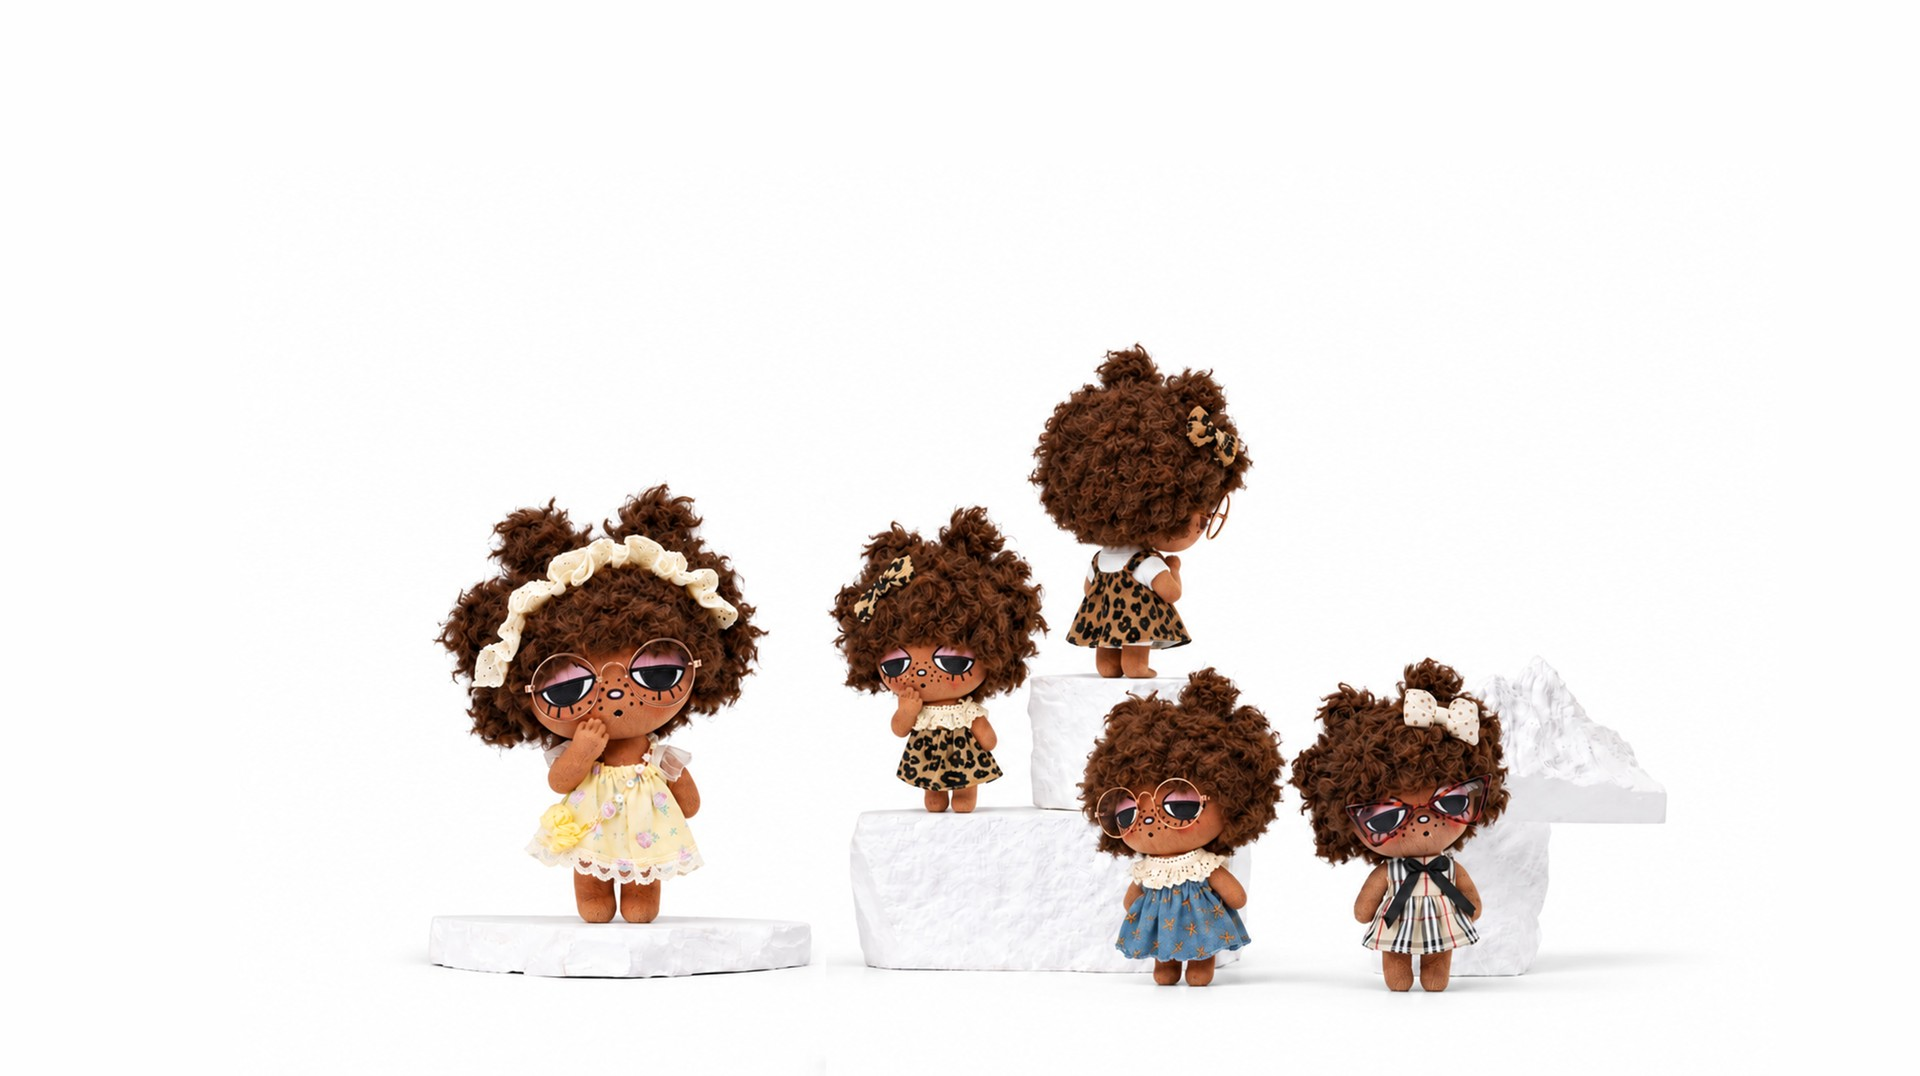
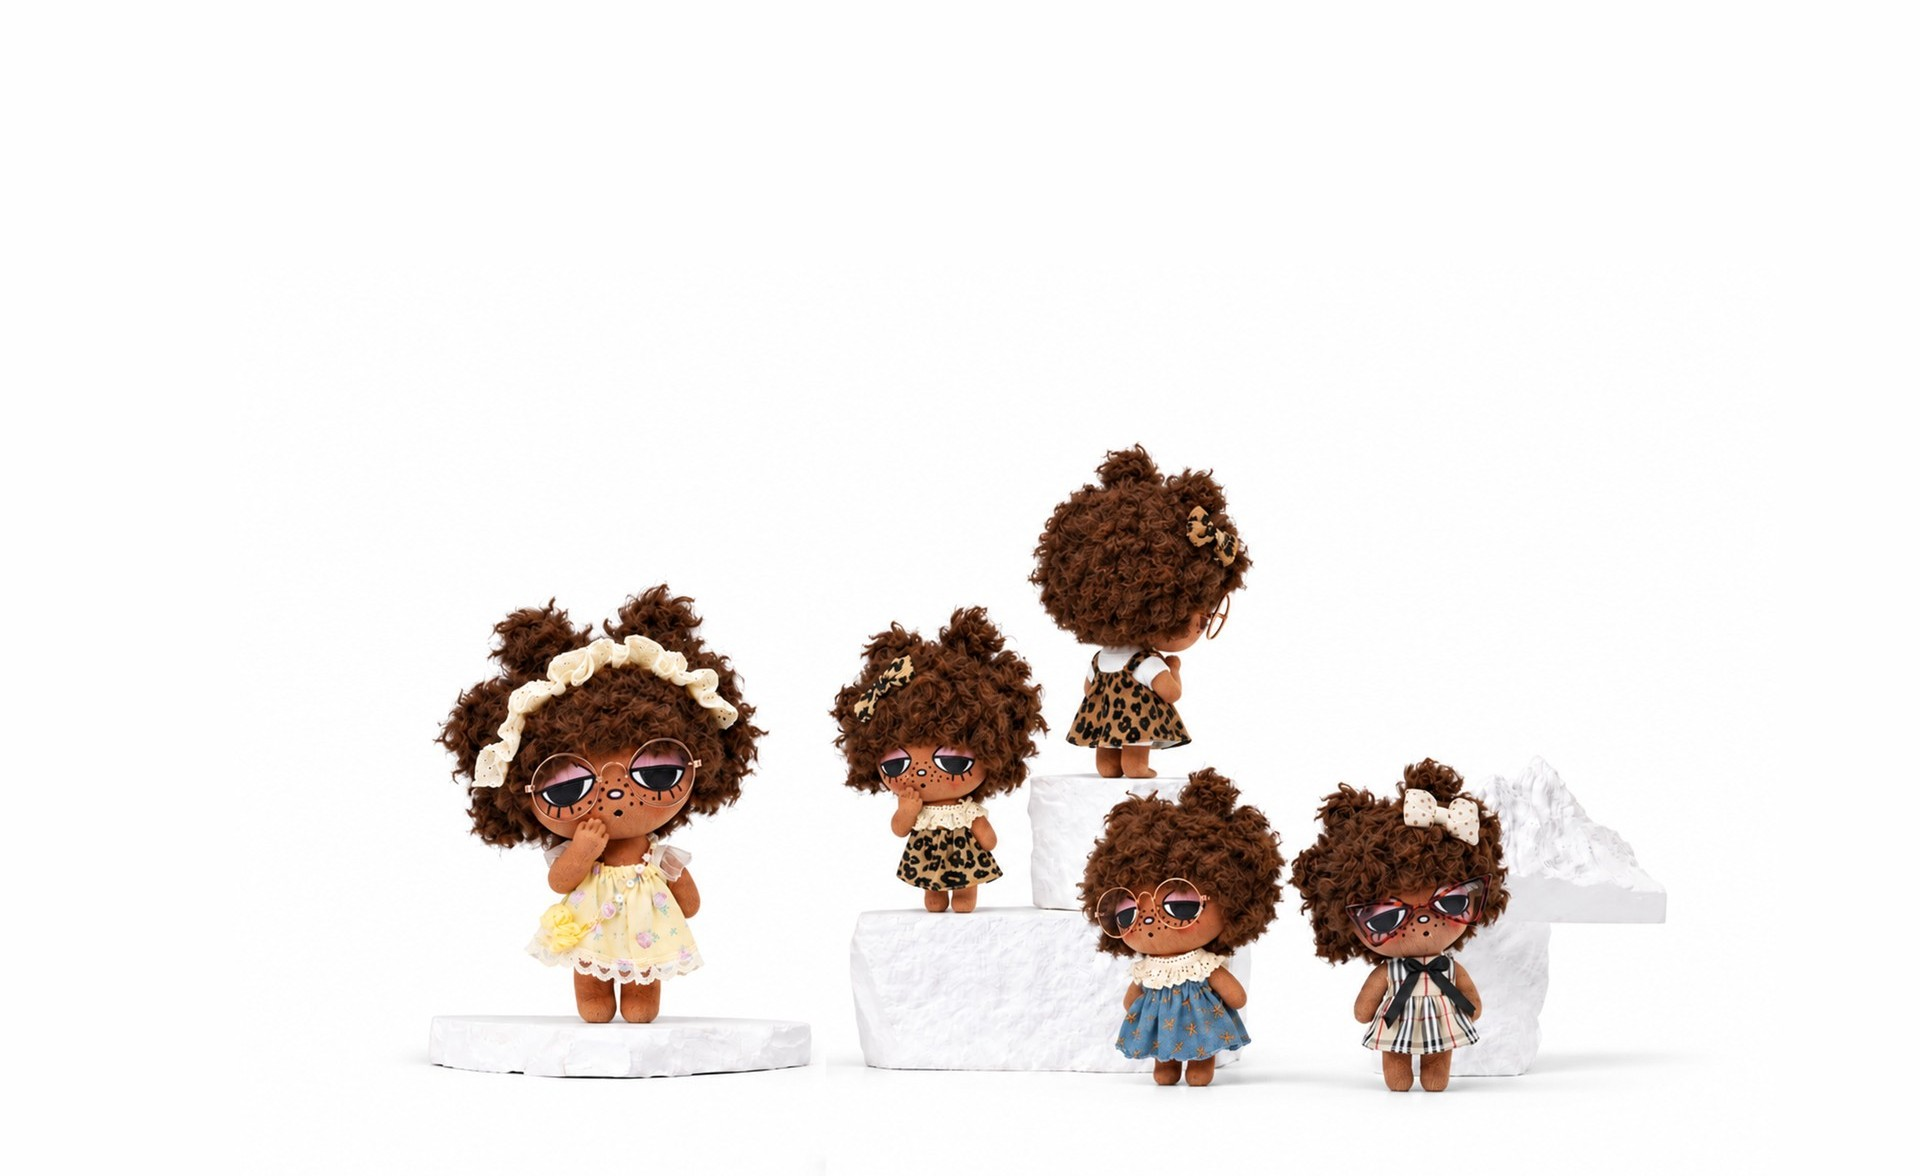
fix(hero): stop title/doll overlap on series slides 3-5
User screenshot showed OFFY+series title overlapping the center doll's face.
Root causes identified by pixel-comparing user shot vs design refs:
- Carousel container was inset-0, so object-contain images were vertically
  centered against the FULL viewport; dolls rendered ~20% higher than the
  design reference. Container is now anchored below the sticky header
  (top: var(--header-h)) and all overlay positions are plain container %.
- hero-02 was rebuilt from PSD layers (bg 图层6 + doll 图层5) but the doll
  sat 7% higher than the reference; added 100px top padding so the doll's
  hairline starts at 41% of frame (design: 40%).
- Titles verified on clean background: slide 3 OFFY area 29/33 light px,
  slide 4 22/33; slide 5 dark bg confirmed identical to the design ref.
Verified on 1512x767 (user viewport), 1440x900 and 375x812: OCR reads
OFFY + series name on all series slides, two-line slogan on slide 1,
promo copy on slide 2. 133 tests green.

Changed region(s): [[0.2188, 0.3067, 0.875, 0.9507]]

diff --git a/src/components/home/HeroCarousel.tsx b/src/components/home/HeroCarousel.tsx
@@ -82,10 +82,10 @@ export function HeroCarousel({
   const renderOverlay = (s: HeroSlide) => (
     <>
       {/* 屏 1:is.offy 字标(顶 15.3% 图区)+ 两行 slogan(顶 30.7% 图区)。
-          定位基准:图片区 = 视口 - header(112px),top = header + pct*87.6vh。 */}
+          定位基准:容器 = header 之下(top: var(--header-h)),位置为容器 %。 */}
       {s.wordmark && (
         <>
-          <div className="absolute inset-x-0 top-[calc(var(--header-h)+13.4vh)] flex justify-center">
+          <div className="absolute inset-x-0 top-[15%] flex justify-center">
             {/* eslint-disable-next-line @next/next/no-img-element */}
             <img
               src="/assets/brand/is-offy-wordmark.png"
@@ -93,7 +93,7 @@ export function HeroCarousel({
               className="h-[7.6vh] w-auto max-w-none"
             />
           </div>
-          <div className="absolute inset-x-0 top-[calc(var(--header-h)+24.5vh)] px-6 text-center">
+          <div className="absolute inset-x-0 top-[30%] px-6 text-center">
             <p className="whitespace-pre-line text-[5.6vh] font-bold leading-[1.65] tracking-[0.15em] text-ink">
               {locale === "zh" ? s.text!.zh : s.text!.en}
             </p>
@@ -102,7 +102,7 @@ export function HeroCarousel({
       )}
       {/* 屏 3-5:标题 PNG(顶 23.4% 图区) */}
       {s.titleImage && (
-        <div className="absolute inset-x-0 top-[calc(var(--header-h)+20.5vh)] flex justify-center px-6">
+        <div className="absolute inset-x-0 top-[23%] flex justify-center px-6">
           {/* eslint-disable-next-line @next/next/no-img-element */}
           <img
             src={s.titleImage}
@@ -116,7 +116,7 @@ export function HeroCarousel({
 
   return (
     <div
-      className="absolute inset-0"
+      className="absolute inset-x-0 bottom-0 top-[var(--header-h)]"
       role="region"
       aria-roledescription="carousel"
       aria-label="Hero"
